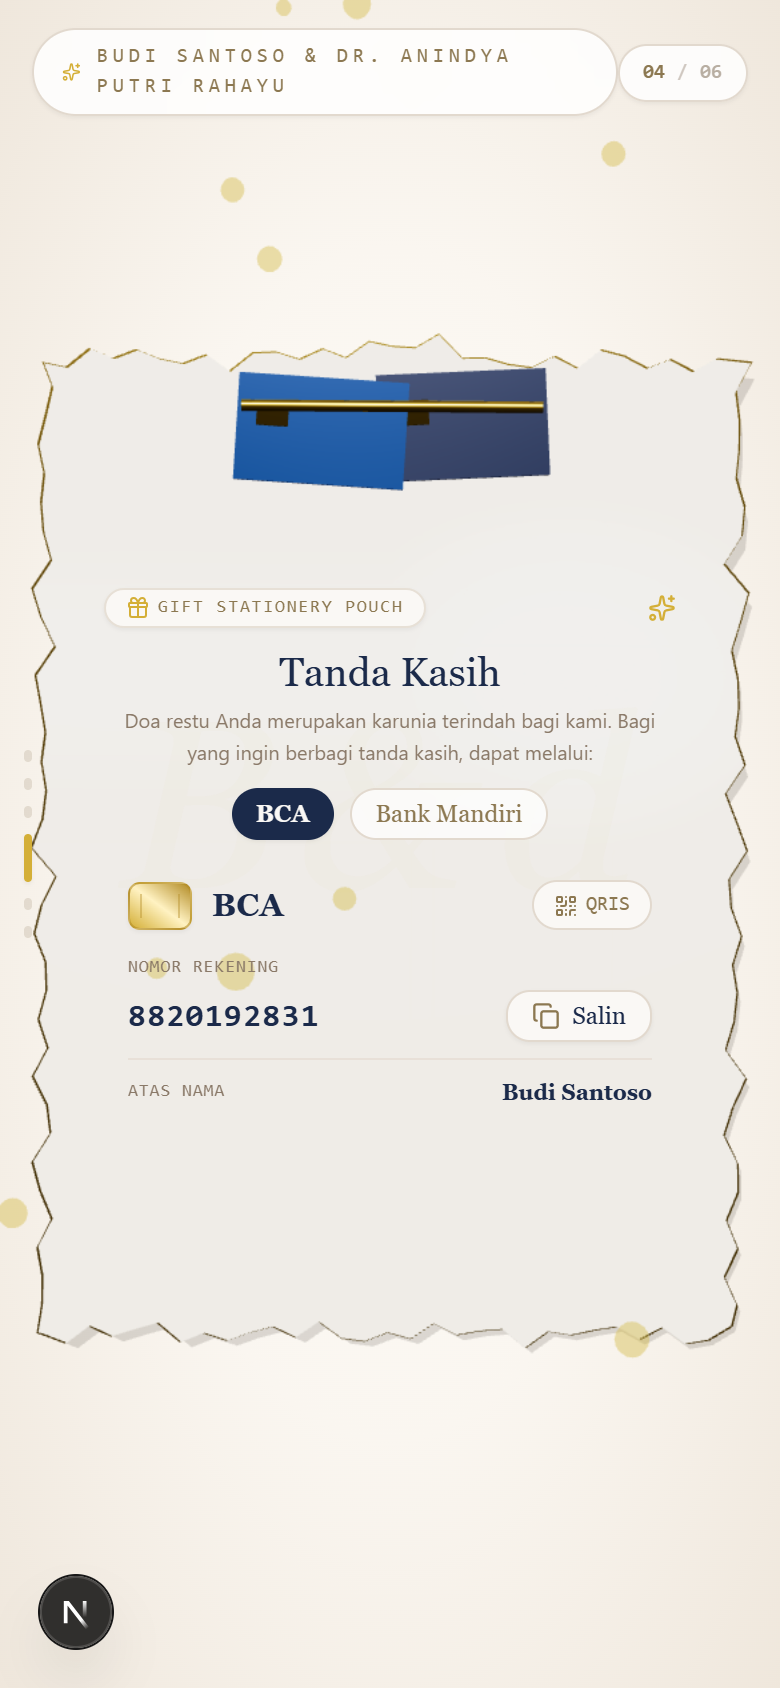
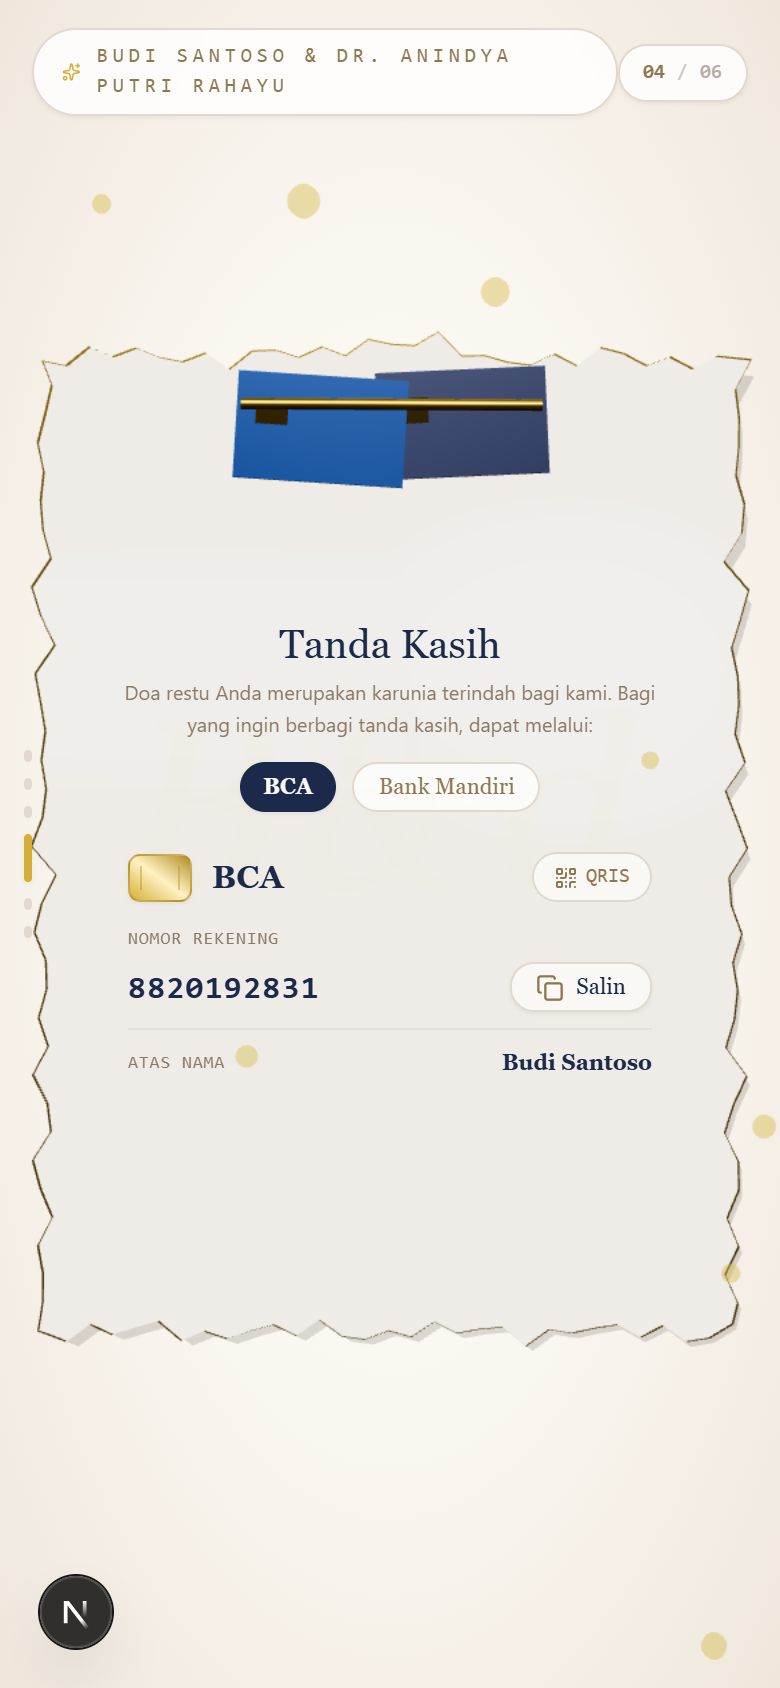
refactor(template-a): remove top pill badges from all invitation layers

diff --git a/src/components/templates/TemplateA/layers/WishesClosingLayer.tsx b/src/components/templates/TemplateA/layers/WishesClosingLayer.tsx
@@ -1,6 +1,6 @@
 'use client'
 
-import { BookOpen, ChevronLeft, ChevronRight, MessageSquareQuote, Sparkles } from 'lucide-react'
+import { ChevronLeft, ChevronRight, MessageSquareQuote } from 'lucide-react'
 import React, { useEffect, useState } from 'react'
 import { formatDate } from '@/lib/utils'
 import type { CoupleWithDetails, Wish } from '@/types'
@@ -26,17 +26,6 @@ export const WishesClosingLayer: React.FC<WishesClosingLayerProps> = ({ couple }
 
   return (
     <div className="w-full p-3 sm:p-5 text-center select-text relative">
-      {/* Header Tag */}
-      <div className="flex items-center justify-between mb-2 select-none">
-        <span className="text-[9px] sm:text-[10px] font-mono tracking-widest text-[#8C7851] uppercase bg-[#FAF8F5] px-2.5 py-0.5 rounded-full border border-[#E2D9CE]/80 shadow-sm inline-flex items-center space-x-1">
-          <BookOpen className="w-3 h-3 text-[#D4AF37]" />
-          <span>Guestbook &amp; Blessing</span>
-        </span>
-        <div className="flex items-center space-x-1 text-[#D4AF37]">
-          <Sparkles className="w-3.5 h-3.5" />
-        </div>
-      </div>
-
       <div className="space-y-0.5 mb-2.5">
         <h2 className="text-xl sm:text-2xl font-serif text-[#1B2A4A]">Doa &amp; Terima Kasih</h2>
         <p className="text-[10px] sm:text-[11px] text-[#8A7968]">

diff --git a/src/components/templates/TemplateA/layers/EventLayer.tsx b/src/components/templates/TemplateA/layers/EventLayer.tsx
@@ -1,6 +1,6 @@
 'use client'
 
-import { Calendar, CalendarPlus, Clock, ExternalLink, MapPin, Sparkles, Ticket } from 'lucide-react'
+import { Calendar, CalendarPlus, Clock, ExternalLink, MapPin } from 'lucide-react'
 import React, { useState } from 'react'
 import { Countdown } from '@/components/shared/Countdown'
 import { formatDate, formatTime } from '@/lib/utils'
@@ -39,17 +39,6 @@ export const EventLayer: React.FC<EventLayerProps> = ({ couple }) => {
 
   return (
     <div className="w-full p-3 sm:p-5 text-center select-text relative">
-      {/* Header Tag */}
-      <div className="flex items-center justify-between mb-2 select-none">
-        <span className="text-[9px] sm:text-[10px] font-mono tracking-widest text-[#8C7851] uppercase bg-[#FAF8F5] px-2.5 py-0.5 rounded-full border border-[#E2D9CE]/80 shadow-sm inline-flex items-center space-x-1">
-          <Ticket className="w-3 h-3 text-[#D4AF37]" />
-          <span>Royal Invitation Pass</span>
-        </span>
-        <div className="flex items-center space-x-1 text-[#D4AF37]">
-          <Sparkles className="w-3.5 h-3.5" />
-        </div>
-      </div>
-
       <div className="space-y-0.5 mb-2.5">
         <h2 className="text-xl sm:text-2xl font-serif text-[#1B2A4A]">Rangkaian Acara</h2>
         <p className="text-[10px] sm:text-[11px] text-[#8A7968]">

diff --git a/src/components/templates/TemplateA/layers/GiftLayer.tsx b/src/components/templates/TemplateA/layers/GiftLayer.tsx
@@ -1,6 +1,6 @@
 'use client'
 
-import { Check, Copy, Gift, QrCode, Sparkles, X } from 'lucide-react'
+import { Check, Copy, QrCode, X } from 'lucide-react'
 import Image from 'next/image'
 import React, { useState } from 'react'
 import { toast } from 'sonner'
@@ -31,17 +31,6 @@ export const GiftLayer: React.FC<GiftLayerProps> = ({ bankAccounts }) => {
 
   return (
     <div className="w-full p-3 sm:p-5 text-center select-text relative">
-      {/* Header Tag */}
-      <div className="flex items-center justify-between mb-2 select-none">
-        <span className="text-[9px] sm:text-[10px] font-mono tracking-widest text-[#8C7851] uppercase bg-[#FAF8F5] px-2.5 py-0.5 rounded-full border border-[#E2D9CE]/80 shadow-sm inline-flex items-center space-x-1">
-          <Gift className="w-3 h-3 text-[#D4AF37]" />
-          <span>Gift Stationery Pouch</span>
-        </span>
-        <div className="flex items-center space-x-1 text-[#D4AF37]">
-          <Sparkles className="w-3.5 h-3.5" />
-        </div>
-      </div>
-
       <div className="space-y-0.5 mb-2.5">
         <h2 className="text-xl sm:text-2xl font-serif text-[#1B2A4A]">Tanda Kasih</h2>
         <p className="text-[10px] sm:text-[11px] text-[#8A7968] max-w-xs mx-auto leading-relaxed">

diff --git a/src/components/templates/TemplateA/layers/RsvpLayer.tsx b/src/components/templates/TemplateA/layers/RsvpLayer.tsx
@@ -1,6 +1,5 @@
 'use client'
 
-import { Mail, Sparkles } from 'lucide-react'
 import React from 'react'
 import { RsvpForm } from '@/components/shared/RsvpForm'
 import type { CoupleWithDetails, Guest } from '@/types'
@@ -13,17 +12,6 @@ interface RsvpLayerProps {
 export const RsvpLayer: React.FC<RsvpLayerProps> = ({ couple, guest }) => {
   return (
     <div className="w-full p-3 sm:p-5 text-center select-text relative">
-      {/* Header Tag */}
-      <div className="flex items-center justify-between mb-2 select-none">
-        <span className="text-[9px] sm:text-[10px] font-mono tracking-widest text-[#8C7851] uppercase bg-[#FAF8F5] px-2.5 py-0.5 rounded-full border border-[#E2D9CE]/80 shadow-sm inline-flex items-center space-x-1">
-          <Mail className="w-3 h-3 text-[#D4AF37]" />
-          <span>RSVP Postcard</span>
-        </span>
-        <div className="flex items-center space-x-1 text-[#D4AF37]">
-          <Sparkles className="w-3.5 h-3.5" />
-        </div>
-      </div>
-
       <div className="space-y-0.5 mb-2.5">
         <h2 className="text-xl sm:text-2xl font-serif text-[#1B2A4A]">Konfirmasi Kehadiran</h2>
         <p className="text-[10px] sm:text-[11px] text-[#8A7968]">

diff --git a/src/components/templates/TemplateA/layers/CoupleLayer.tsx b/src/components/templates/TemplateA/layers/CoupleLayer.tsx
@@ -1,6 +1,5 @@
 'use client'
 
-import { Sparkles } from 'lucide-react'
 import Image from 'next/image'
 import React from 'react'
 import type { CoupleWithDetails } from '@/types'
@@ -31,16 +30,6 @@ export const CoupleLayer: React.FC<CoupleLayerProps> = ({ couple }) => {
 
   return (
     <div className="w-full p-3 sm:p-5 text-center select-text relative">
-      {/* Top Header Tag */}
-      <div className="flex items-center justify-between mb-2 select-none">
-        <span className="text-[9px] sm:text-[10px] font-mono tracking-widest text-[#8C7851] uppercase bg-[#FAF8F5] px-2.5 py-0.5 rounded-full border border-[#E2D9CE]/80 shadow-sm">
-          Act 02 &bull; The Couple
-        </span>
-        <div className="flex items-center space-x-1 text-[#D4AF37]">
-          <Sparkles className="w-3.5 h-3.5" />
-        </div>
-      </div>
-
       <div className="space-y-0.5 mb-3">
         <h2 className="text-xl sm:text-2xl font-serif text-[#1B2A4A]">Kedua Mempelai</h2>
         <p className="text-[10px] sm:text-[11px] text-[#8A7968]">

diff --git a/src/components/templates/TemplateA/layers/OpeningLayer.tsx b/src/components/templates/TemplateA/layers/OpeningLayer.tsx
@@ -1,6 +1,6 @@
 'use client'
 
-import { ChevronDown, Sparkles } from 'lucide-react'
+import { ChevronDown } from 'lucide-react'
 import React from 'react'
 import type { CoupleWithDetails, Guest } from '@/types'
 
@@ -12,12 +12,6 @@ interface OpeningLayerProps {
 export const OpeningLayer: React.FC<OpeningLayerProps> = ({ couple, guest }) => {
   return (
     <div className="w-full p-2.5 sm:p-4 text-center select-text relative flex flex-col items-center">
-      {/* Top Royal Decree Badge */}
-      <div className="inline-flex items-center space-x-1.5 px-3 py-0.5 rounded-full bg-[#FAF8F5] border border-[#E2D9CE] text-[9px] sm:text-[10px] font-mono uppercase tracking-[0.25em] text-[#8C7851] shadow-sm select-none mb-2">
-        <Sparkles className="w-3 h-3 text-[#D4AF37]" />
-        <span>Walimatul &apos;Ursy</span>
-      </div>
-
       {/* 1. Salam */}
       <div className="mb-2">
         <p className="text-[11px] sm:text-xs font-serif italic text-[#8A7968] tracking-wide">
